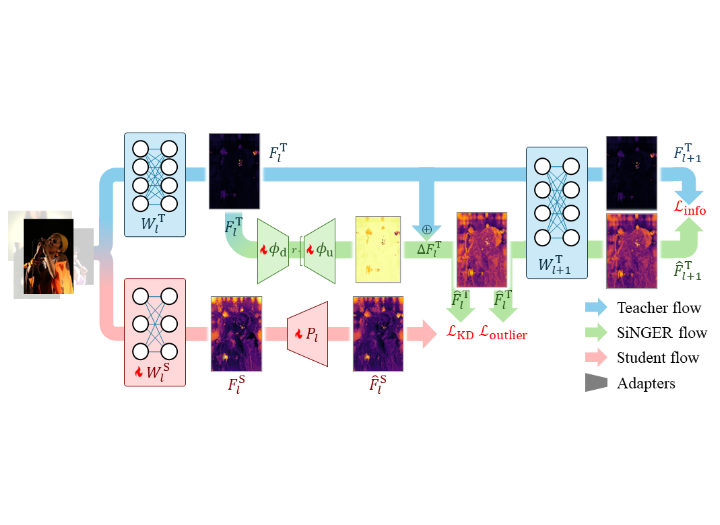
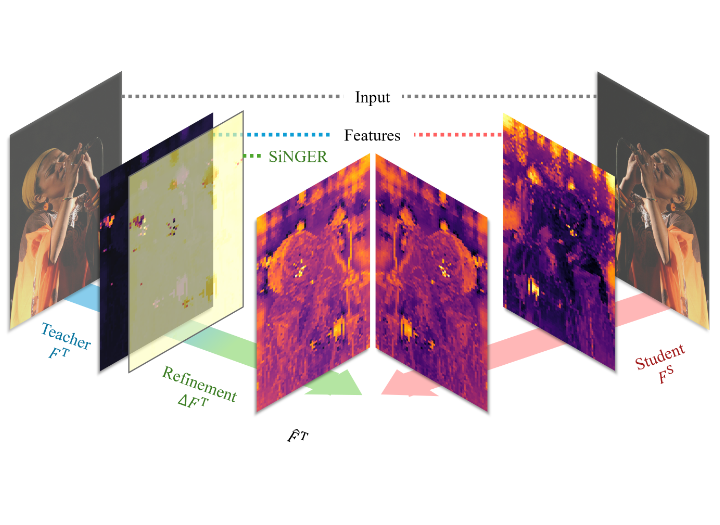
Update: SiNGER update
On branch main
Your branch is up to date with 'origin/main'.

Changes to be committed:
	modified:   content/publication/2026_iclr_singer/featured.png
	modified:   content/publication/2026_iclr_singer/index.md

diff --git a/content/publication/2026_iclr_singer/index.md b/content/publication/2026_iclr_singer/index.md
@@ -61,11 +61,11 @@ links:
 url_pdf: 'https://openreview.net/pdf?id=exjrxVc2yT'
 url_code: 'https://github.com/AIRLABkhu/SiNGER'
 # url_dataset: 'https://github.com/HugoBlox/hugo-blox-builder'
-# url_poster: 'https://airlabkhu.github.io/A2XP/static/pdfs/A2XP_poster.pdf#view=fit'
-# url_project: 'https://airlabkhu.github.io/A2XP/'
-# url_slides: 'https://airlabkhu.github.io/A2XP/static/pdfs/A2XP_slides.pdf#view=fit'
+url_poster: 'https://airlabkhu.github.io/SiNGER/static/pdfs/Poster_150x90.pdf#view=fit'
+url_project: 'https://airlabkhu.github.io/SiNGER/'
+url_slides: 'https://airlabkhu.github.io/SiNGER/static/pdfs/Slides.pdf#view=fit'
 # url_source: 'https://github.com/HugoBlox/hugo-blox-builder'
-# url_video: 'https://www.youtube.com/watch?v=RLb8EdYWaDk'
+url_video: 'https://www.youtube.com/watch?v=oYYARDT2WH0'
 
 # Featured image
 # To use, add an image named `featured.jpg/png` to your page's folder.
@@ -90,8 +90,8 @@ image:
 # slides: example
 ---
 
-<!-- <iframe src="https://airlabkhu.github.io/A2XP/static/pdfs/A2XP_poster.pdf#view=fit" width="100%" height="400">
-</iframe> -->
+<iframe src="https://airlabkhu.github.io/SiNGER/static/pdfs/Poster_150x90.pdf#view=fit" width="100%" height="400">
+</iframe>
 
 <!-- {{% callout note %}}
 Click the _Cite_ button above to demo the feature to enable visitors to import publication metadata into their reference management software.
